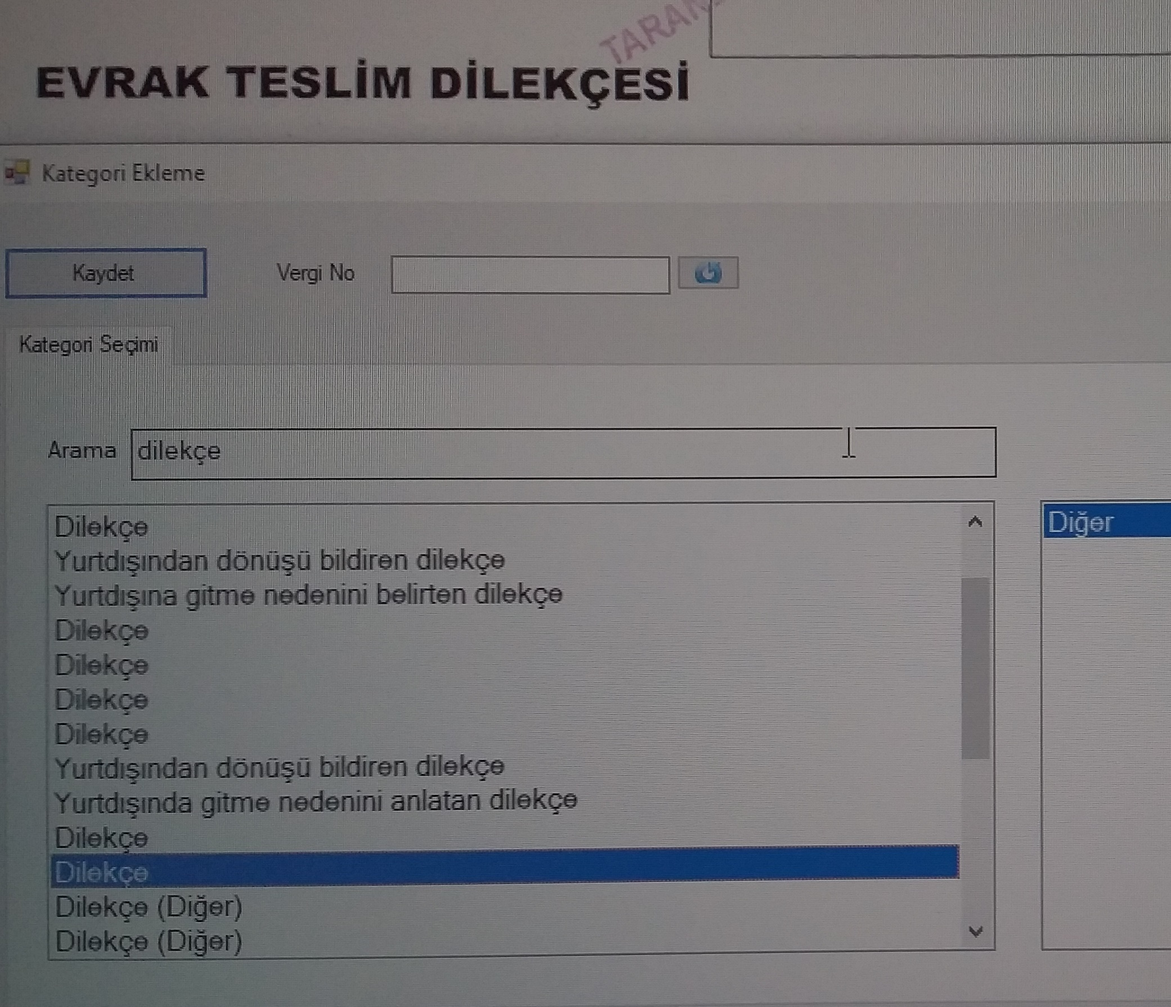
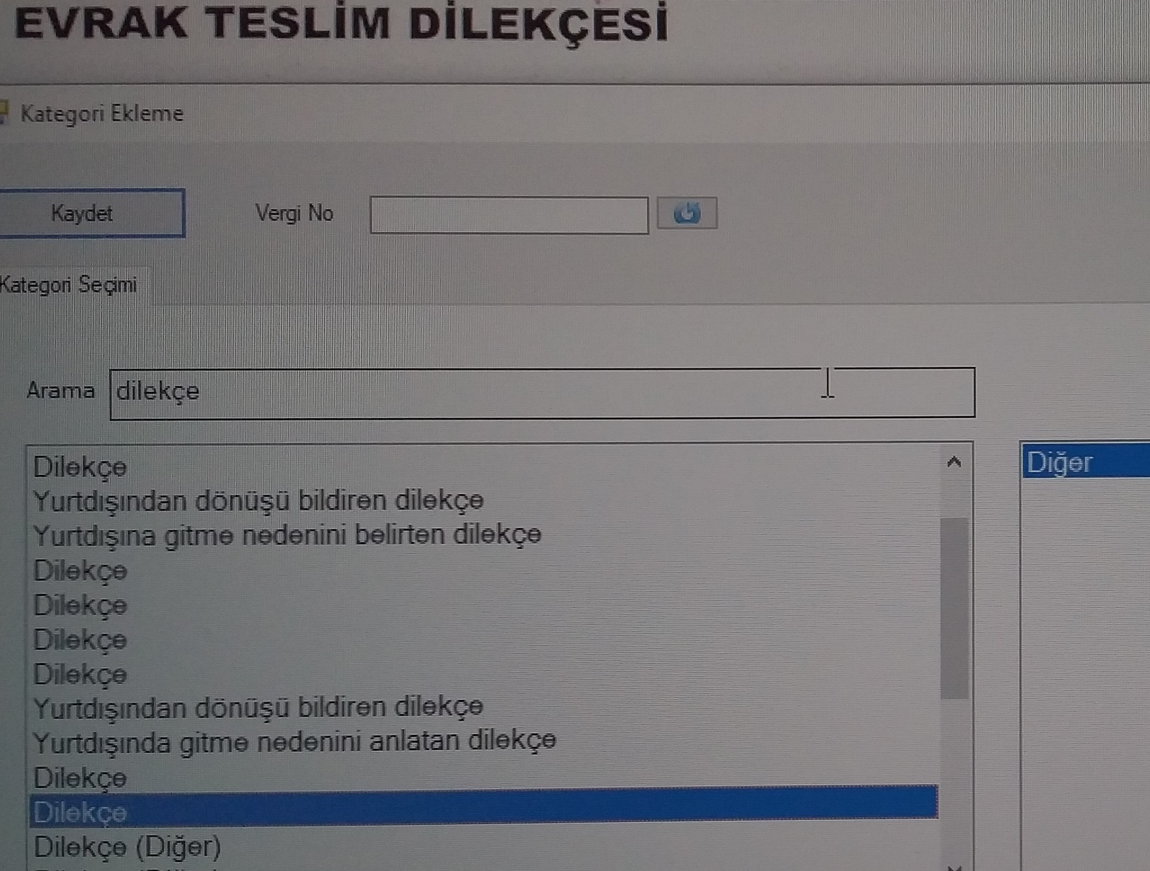
kafjlajf

diff --git a/src/docs.js b/src/docs.js
@@ -25,7 +25,28 @@ const docs = [
     title: "Meslek Mensubu Ruhsatı",
     img: ["/img/mensup-ruhsati.jpg"],
     desc: "Meslek mensubunun(SMMM) görev yapma yetkisini gösteren bu belge çoğunlukla 'Oda Kayıt Belgesi' veya 'Faaliyet Belgesi' ile birlikte arka arkaya gelecek şekilde karşımıza çıkar, 'Meslek Mensubunun Ruhsatı' kategorisine gider. Uygun vergi numarası girilmelidir.",
-    keywords: "hizmet listesi ilk aylık hizmet listesi son aylık hizmet listesi sgk hizmet listesi"
+    keywords: "serbest mali müşavir ruhsatı ruhsat"
+  },
+  {
+    id: 5,
+    title: "Faaliyet Belgesi (Üye Sicil Kaydı)",
+    img: ["/img/faaliyet-belgesi.jpg", "/img/faaliyet-belgesi-1.jpg"],
+    desc: "Meslek mensubunun(SMMM) çeşitli bilgilerini içerir, 'Faaliyet Belgesi(Meslek mensubunun)' kategorisine gider.",
+    keywords: "faaliyet belgesi üye sicil kaydı"
+  },
+  {
+    id: 6,
+    title: "Dilekçe (Evrak Teslim)",
+    img: ["/img/evrak-teslim.jpg"],
+    desc: "Kendine ait bir kategori yok. Arama kısmına 'dilekçe' yazılır ve listede 'Dilekçe (Diğer)' bulunur, bunun hemen üstündeki 'Dilekçe' kategorisine atılır.",
+    keywords: "evrak teslim dilekçesi dilekçe"
+  },
+  {
+    id: 7,
+    title: "Dilekçe (Doğum İzni)",
+    img: ["/img/dilekce-dogum-izni.jpg"],
+    desc: "Üst kategori adı 'Dilekçe'dir. Bu dilekçelerin gidebileceği iki alt kategori mevcuttur; 'doğum ücretsiz izni' ve 'doğum izni'. Tekerrür var, bu sebeple hepsini 'doğum izni'ne atacağız.",
+    keywords: "doğum izni dilekçesi izin dilekçe"
   },
   {
     id: 10,
@@ -38,9 +59,16 @@ const docs = [
     id: 15,
     title: "mezun belgesi (E-Devlet)",
     img: ["/img/mezun-belgesi.jpg"],
-    desc: "'Mezun Belgesi' başlıklı bu belge E-Devlet üzerinden alınmıştır ve genellikle SGS ile ilgili evrakların arasında karşımıza çıkar. Bu sebeple 'Mezun Belgesi(E-Devlet) kategorisine gider.' ",
+    desc: "'Mezun Belgesi' başlıklı bu belge E-Devlet üzerinden alınmıştır ve genellikle SGS ile ilgili evrakların arasında karşımıza çıkar. Bu sebeple 'Mezun Belgesi(E-Devlet)' kategorisine gider.",
     keywords: "e-devlet mezun belgesi yök"
-  }
+  },
+  {
+    id: 16,
+    title: "Dilekçe (Meslek mensubu değişikliği)",
+    img: ["/img/meslek-mensubu-degisikligi-dilekcesi.jpg"],
+    desc: "'Meslek Mensubu Değişikliği Dilekçesi' kategorisine gider.",
+    keywords: "meslek mensubu değişikliği dilekçesi"
+  },
 ];
 
 export default docs;

diff --git a/src/components/TaxInput.jsx b/src/components/TaxInput.jsx
@@ -26,7 +26,7 @@ const TaxInput = ({ handleAdd }) => {
           onChange={e => setBlockNum(e.target.value)}
         />
       </div>
-      <form style={{ display: "flex", justifyContent: "space-between" }}>
+      <form style={{ display: "flex", justifyContent: "space-between", flexWrap: "wrap", gap: "5px" }}>
         <div>
           <label>İsim ve Adres:* </label>
           <input
